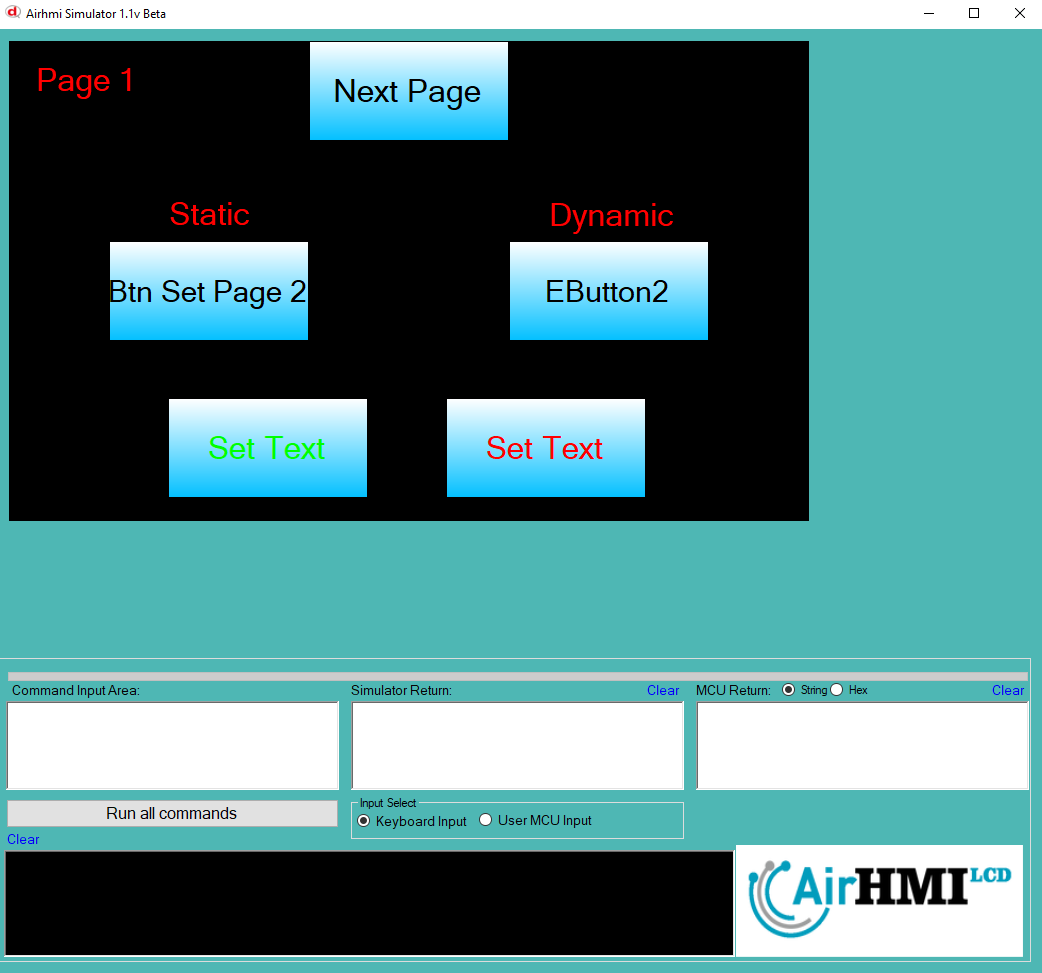
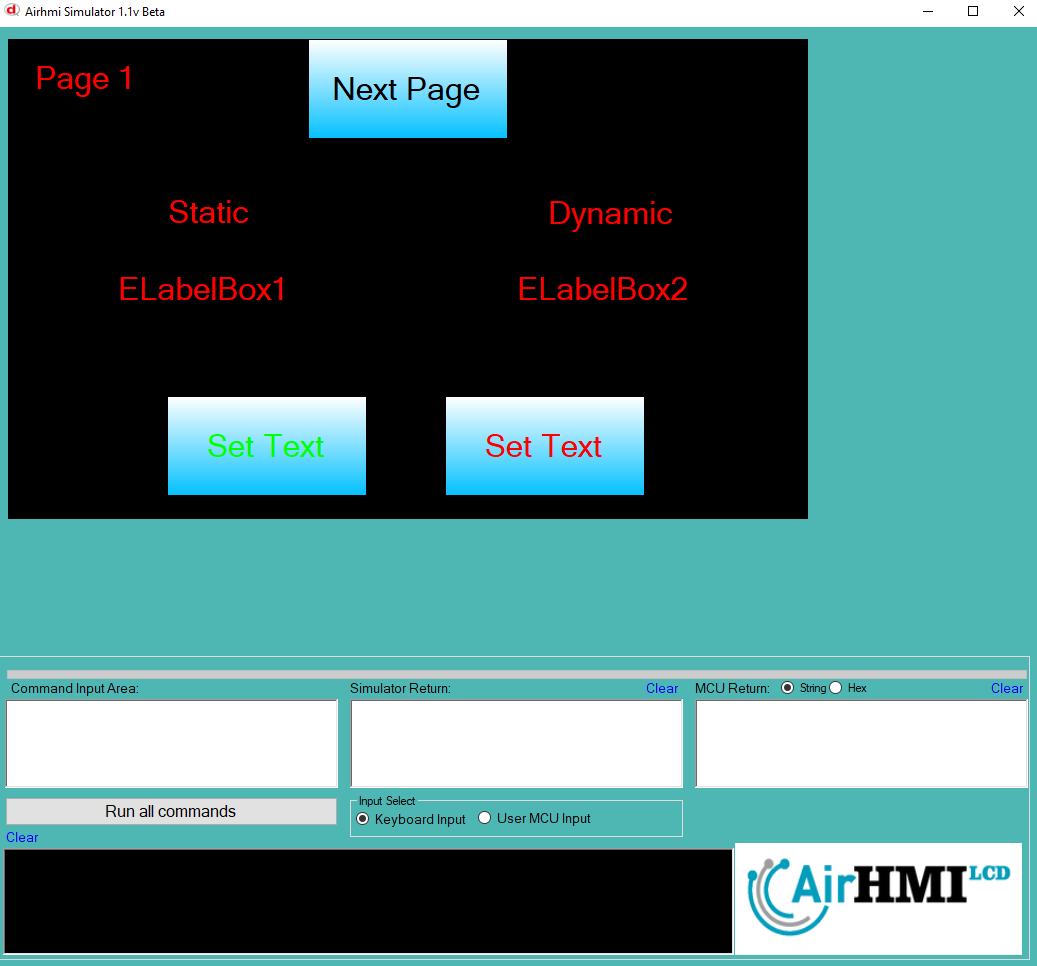
update

diff --git a/Examples/BasicUI/LabelBox/LabelBox_Text_Caption_Set/README.md b/Examples/BasicUI/LabelBox/LabelBox_Text_Caption_Set/README.md
@@ -1,29 +1,29 @@
-# Buton Text Özelliği
+# LabelBox Text Özelliği
 
-Bu dokümanda, statik ve dinamik olmak üzere iki farklı butonun Text özelliği üzerinde etkili olan faktörler incelenmiştir.
-Statik butonlar her sayfadan tüm özelliklerine ulaşılıp değiştirilebilen butonlardır. Static(false) yani dinamik butonlar ise sayfaya özgüdür.
-Sayfa değiştiği zaman hiçbir özelliği tutulmaz. Sayfa değişip tekrar aynı sayfaya gidildiği zaman buton ilk hali ile baştan meydana getirilir. 
+Bu dokümanda, statik ve dinamik olmak üzere iki farklı LabelBox Text özelliği üzerinde etkili olan faktörler incelenmiştir.
+Statik LabelBoxlar her sayfadan tüm özelliklerine ulaşılıp değiştirilebilen LabelBoxlardır. Static(false) yani dinamik LabelBoxlar ise sayfaya özgüdür.
+Sayfa değiştiği zaman hiçbir özelliği tutulmaz. Sayfa değişip tekrar aynı sayfaya gidildiği zaman LabelBox ilk hali ile baştan meydana getirilir. 
 
-## 📌 1. Butonların Tanımı
-- **🟢 Statik Buton**: Static özelliği true olan butondur. Text (`Caption`) özelliği **hem aynı sayfadan hem de diğer sayfalardan** değiştirilebilir.
-- **🔵 Dinamik Buton**: Statik özelliği false olan butondur. Text (`Caption`) özelliği **yalnızca aynı sayfada** değiştirilebilir, diğer sayfalardan değiştirilemez.
+## 📌 1. LabelBoxların Tanımı
+- **🟢 Statik LabelBox**: Static özelliği true olan LabelBoxdur. Text (`Caption`) özelliği **hem aynı sayfadan hem de diğer sayfalardan** değiştirilebilir.
+- **🔵 Dinamik LabelBox**: Statik özelliği false olan LabelBoxdur. Text (`Caption`) özelliği **yalnızca aynı sayfada** değiştirilebilir, diğer sayfalardan değiştirilemez.
 
-## 🔍 2. Buton Text Caption Değiştirme Durumları
+## 🔍 2. LabelBox Text Caption Değiştirme Durumları
 ### 🏠 Aynı Sayfada Olası Senaryolar
-- Kullanıcı **statik butonun Text değerini** değiştirebilir.
-- Kullanıcı **dinamik butonun Text değerini** değiştirebilir.
+- Kullanıcı **statik LabelBox Text değerini** değiştirebilir.
+- Kullanıcı **dinamik LabelBox Text değerini** değiştirebilir.
 
 
 ### 🔄 Farklı Sayfadan Olası Senaryolar
-- Kullanıcı **statik butonun Text değerini** değiştirebilir.
-- Kullanıcı **dinamik butonun Text değerini değiştiremez.**
-- **Statik buton**, farklı sayfadan Text değerini değiştirirsek, aynı sayfaya dönüldüğünde **yeni değiştirilen text değeri gelir.**
-- **Dinamik butonun Text değerini değiştirsek bile etki etmez.**
+- Kullanıcı **statik LabelBox Text değerini** değiştirebilir.
+- Kullanıcı **dinamik LabelBox Text değerini değiştiremez.**
+- **Statik LabelBox**, farklı sayfadan Text değerini değiştirirsek, aynı sayfaya dönüldüğünde **yeni değiştirilen text değeri gelir.**
+- **Dinamik LabelBox Text değerini değiştirsek bile etki etmez.**
 
 ## 🎯 4. Sonuç
-✔ Aynı sayfada **her iki butonun Text değerini değiştirilebilir**.  
-✔ **Statik butonun Text değerini** diğer sayfalardan değiştirilebilir.  
-✔ **Dinamik butonun Text değerini** yalnızca oluşturulduğu sayfada değiştirilebilir.  
+✔ Aynı sayfada **her iki LabelBox Text değerini değiştirilebilir**.  
+✔ **Statik LabelBox Text değerini** diğer sayfalardan değiştirilebilir.  
+✔ **Dinamik LabelBox Text değerini** yalnızca oluşturulduğu sayfada değiştirilebilir.  
 
 
 ![Açıklama Metni](1.png)
